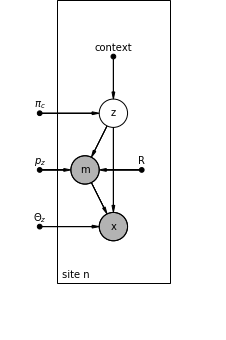
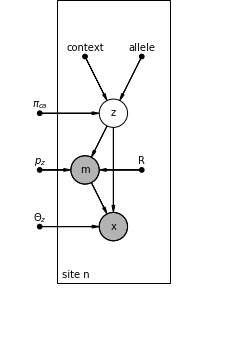
update the pgm with allele node

Changed region(s): [[0.2788, 0.1176, 0.6814, 0.2941], [0.1239, 0.2941, 0.2168, 0.3235], [0.4027, 0.2059, 0.4336, 0.2353]]

diff --git a/docs/mutect/orientation-bias.tex b/docs/mutect/orientation-bias.tex
@@ -118,20 +118,26 @@ Why wouldn't this artifact appear in a F2R1 read? Well, to have an F2R1 read
 \subsection{How PCR multplies inserts with oxog}
 
 
-\section{The generative model}
+\section{The probabilistic model}
 
-The probabilistic model consists of the following random variables. For each reference context $i$ - that is, for every $k$-mer in the reference - the discrete latent variable $z$ represents the state of the site with respect to the degree of orientation-bias 
+Our probabilistic graphical model is in Figure (\ref{fig:pgm}). For each reference context $c$ - that is, for every $k$-mer in the reference - the discrete latent variable $z$ represents the state of the site with respect to the degree of orientation-bias 
 
 \begin{equation*}
-z \in \{ \mathrm{F1R2}, \mathrm{F2R1}, \mathrm{Balanced Hom Ref}, \mathrm{ Balanced Het }, \mathrm{ Balanced Hom Var } \}
+z \in \{ \text{F1R2}, \text{F2R1}, \text{Balanced Hom Ref}, \text{Balanced Het}, \text{Balanced Hom Var} \}
 \end{equation*}
 
-$z \sim \mathrm{Categorical}(\vpi_c)$, where $\pi_{ck}$ is the context dependent prior probability of kth component $Z$ and thus satisfies $\sum_k \pi_{ck} = 1$, where $k \in [1, |Z|]$. The number of ALT allele at the site, $m$, is a binomial random variable that depends on the state $z$; $m|z \sim \mathrm{Binom(p_z)}$. We explicitly model the number of ALT alleles because its dependence on $z$ encapsulates our knowledge that, when orientation bias is present, we \textit{always} have some number of (artifactual) ALT reads at the site. In other words, if we do not observe ALT reads at all (i.e. $z = \mathrm{Hom ref}$), we cannot have orientation bias at the site. \todo[inline, color = green]{This is not a valid i.e. We cannot assume that $m = 0$ and $z = \text{hom ref}$ go together. Rather, we must design the model such that this is the case. That is, we give it a very low likelihood when $m = 0$ and $z$ is anything other than hom ref.}. We then model the number of $F1R2$ reads among $m$ ALT reads as $x|m,z \sim \mathrm{Binom(\vtheta_z)}$, parameterized by $\theta_z$ that depends on whether the site suffers from orientation bias. In other words, $\theta$ depends on $z$. 
+$z \sim \mathrm{Categorical}(\vpi^a_c)$, where $\pi^a_{ck}$ is the context dependent prior probability of kth component $Z$ given allele $a$ and satisfies $\sum_k \pi^a_{ck} = 1$, where $k \in [1, |Z|]$. The number of ALT allele at the site, $m$, is a binomial random variable whose probability of success $f$ (i.e. allele fraction) depends on the state $z$. We explicitly model the number of ALT alleles because its dependence on $z$ encapsulates our knowledge that, when orientation bias is present, we \textit{always} have (artifactual) ALT reads at the site. In other words, if we do not observe ALT reads at all (i.e. $z = \mathrm{Hom ref}$), we cannot have orientation bias at the site. \todo[inline, color = green]{This is not a valid i.e. We cannot assume that $m = 0$ and $z = \text{hom ref}$ go together. Rather, we must design the model such that this is the case. That is, we give it a very low likelihood when $m = 0$ and $z$ is anything other than hom ref.}. We then model the number of $F1R2$ reads among $m$ ALT reads as $x|m,z \sim \mathrm{Binom(\vtheta_z)}$, parameterized by $\theta_z$ that depends on whether the site suffers from orientation bias. In other words, $\theta$ depends on $z$. 
+
+\begin{itemize}
+\item $z \sim \mathrm{Categorical}(\vpi^a_c)$
+\item $m | z \sim \mathrm{Binom(f_z)}$
+\item $x | m,z \sim \mathrm{Binom(\vtheta_z)}$
+\end{itemize}
 
 \begin{figure}
 \centering
 \includegraphics[width=0.3\textwidth]{pgm.png}
-\caption{\label{fig:pgm} The probabilistic graphical model}
+\caption{\label{fig:pgm} The probabilistic graphical model for the orientation bias filter}
 \end{figure}
 
 % TODO: What does the model know? What doesn't it know? The model does not know about the normal sample. If there's a low allele fraction variant in 
@@ -146,26 +152,26 @@ In the E step, we compute the responsibility of the $k$th component of $z$, deno
 
 \begin{align}
 \gamma^*_{nk} &\propto p(z_{k} | x_n) \nonumber \\
-		        &\propto p(z_{k}) p(m_n | z_k, p_{z} ) p(x_n | m_n ) \nonumber \\
-		        &= \pi_k  \{ p_{z}^{m_n} (1-p_k)^{R - m_n} \} \{ \theta_k^{x_n} (1 - \theta_k)^{m_n - x_n} \}
+		        &\propto p(z_{k}) p(m_n | z_k, f_{k} ) p(x_n | m_n ) \nonumber \\
+		        &= \pi_k  \{ f_{k}^{m_n} (1-f_k)^{R - m_n} \} \{ \theta_k^{x_n} (1 - \theta_k)^{m_n - x_n} \}
 \end{align}
 
-where $R$ is the number of reads at site $n$, and the asterisk over $\gamma^*_{nk}$ denotes that the responsibility is not normalized and thus is not a probability. We normalize each responsibility by dividing by their sum as below.
+where $R$ is the number of reads at site $n$, and the asterisk over $\gamma^*_{nk}$ denotes that the responsibility is not normalized and thus is not a probability. Normalizing responsibilities gives us
 
 \begin{align}
 \gamma_{nk} = \frac{\gamma^*_{nk}}{\sum_{k'} \gamma^*_{nk'}}
 \end{align}
 
 \subsubsection{M step}
-In the M step, we maximize the expectation of the complete-data log likelihood with respect to the posterior distribution over $z$ (so $\E$ is a shorthand for $\E_{Z \sim p(Z|X,M)}$). The complete-data log likelihood $p(X, M, Z | \vpi, \vp, \vtheta)$ follows directly from the graphical model. the expectation, we get
+In the M step, we maximize the expectation of the complete-data log likelihood with respect to the posterior distribution over $z$ (so $\E$ is a shorthand for $\E_{Z \sim p(Z|X,M)}$). The complete-data log likelihood $p(X, M, Z | \vpi, \vp, \vtheta)$ follows directly from the graphical model, and its expectation is
 
 \begin{align}
 \E [ \ln p(X, M , Z | \vpi, \vp, \vtheta) ] &= \E [ \ln \prod_{n = 1}^{N}  p(Z) p(M | Z, p_{z} ) p(X | M, Z ) ] \nonumber \\
-							&= \E [ \ln \prod_{n = 1}^{N} \{ \prod_{k = 1}^{K} \pi_k^{z_{kn}} \} \{ \prod_{k = 1}^{K} ( p_k^{m_n} (1-p_k)^{R - m_n} ) ^{z_{nk}} \} \{ \prod_{k = 1}^{K} ( \theta_k^{x_n} (1 - \theta_k)^{m_n - x_n} )^{z_{nk}} \} ] \notag \\
-							&= \E [ \ln \prod_{n = 1}^{N} \prod_{k = 1}^{K} ( \pi_k  p_{k}^{m_n} (1-p_k)^{R - m_n} \theta_k^{x_n} (1 - \theta_k)^{m_n - x_n} )^{z_{nk}} ]  \nonumber \\
-							&= \E [ \sum_{n = 1}^{N} \sum_{k = 1}^{K} z_{nk} \{ \ln \pi_k  + m_n \ln p_k + (R - m_n) \ln (1-p_k) + \notag \\
+							&= \E [ \ln \prod_{n = 1}^{N} \{ \prod_{k = 1}^{K} \pi_k^{z_{kn}} \} \{ \prod_{k = 1}^{K} ( f_k^{m_n} (1-f_k)^{R - m_n} ) ^{z_{nk}} \} \{ \prod_{k = 1}^{K} ( \theta_k^{x_n} (1 - \theta_k)^{m_n - x_n} )^{z_{nk}} \} ] \notag \\
+							&= \E [ \ln \prod_{n = 1}^{N} \prod_{k = 1}^{K} ( \pi_k  f_{k}^{m_n} (1-f_k)^{R - m_n} \theta_k^{x_n} (1 - \theta_k)^{m_n - x_n} )^{z_{nk}} ]  \nonumber \\
+							&= \E [ \sum_{n = 1}^{N} \sum_{k = 1}^{K} z_{nk} \{ \ln \pi_k  + m_n \ln f_k + (R - m_n) \ln (1-f_k) + \notag \\
 							&\phantom{---------------} x_n \ln \theta_k + (m_n - x_n) \ln (1 - \theta_k) \} ]  \nonumber \\
-							&= \sum_{n = 1}^{N} \sum_{k = 1}^{K} \gamma_{nk} \{ \ln \pi_k  + m_n \ln p_k + (R - m_n) \ln (1-p_k) + \notag \\
+							&= \sum_{n = 1}^{N} \sum_{k = 1}^{K} \gamma_{nk} \{ \ln \pi_k  + m_n \ln f_k + (R - m_n) \ln (1-f_k) + \notag \\
 						    &\phantom{---------------} x_n \ln \theta_k + (m_n - x_n) \ln (1 - \theta_k) \label{eq:expjointLL} \}
 \end{align} 
 
@@ -190,10 +196,10 @@ where we used (\ref{eq:xbar}) and (\ref{eq:mbar}). Solving for $\theta_k$, we ge
 \hat{\theta}_k = \frac{\bar{x}_k}{\bar{m}_k} \label{eq:theta}
 \end{align}
 
-Derivative with respect to $p_k$ is completely analogous:
+Derivative with respect to $f_k$ is completely analogous:
 
 \begin{align}
-\hat{p}_k = \frac{\bar{m}_k}{R} \label{eq:p}
+\hat{f}_k = \frac{\bar{m}_k}{R} \label{eq:f}
 \end{align}
 
 Finally we take the derivative with respect to $\pi_k$ under the constraint $\sum_k \pi_k = 1$. Using a Lagrange multiplier to account for the constraint, we get
@@ -248,6 +254,13 @@ When mean field theory is used, the conjugacy across nodes is not crucial. Conju
 $m$ could be binomial. Or it could be beta-binomial. Beta-binomial has larger spread when $n$ is large or something. 
 
 At one point I suggested that $m|z = \mathrm{no bias}$ be a mixture, between somatic variant (where $m$ can be large) or hom ref (where $m$). Instead I could just add more values to the $z$ variable such that $z \in \{ \text{F1R2}, \text{F2R1}, \text{Balanced Hom Ref}, \text{Balanced Somatic}, \text{Germline} \}$.
+
+%%%%%%%%%%
+\section{Previous approach, and why my filter is better}
+\begin{itemize}
+\item The old tool adds up the count of pro, con, ref, alt for each transition over different contexts, so if there's any context-specific information we lose it.
+\item 
+\end{itemize}
 
 
 
